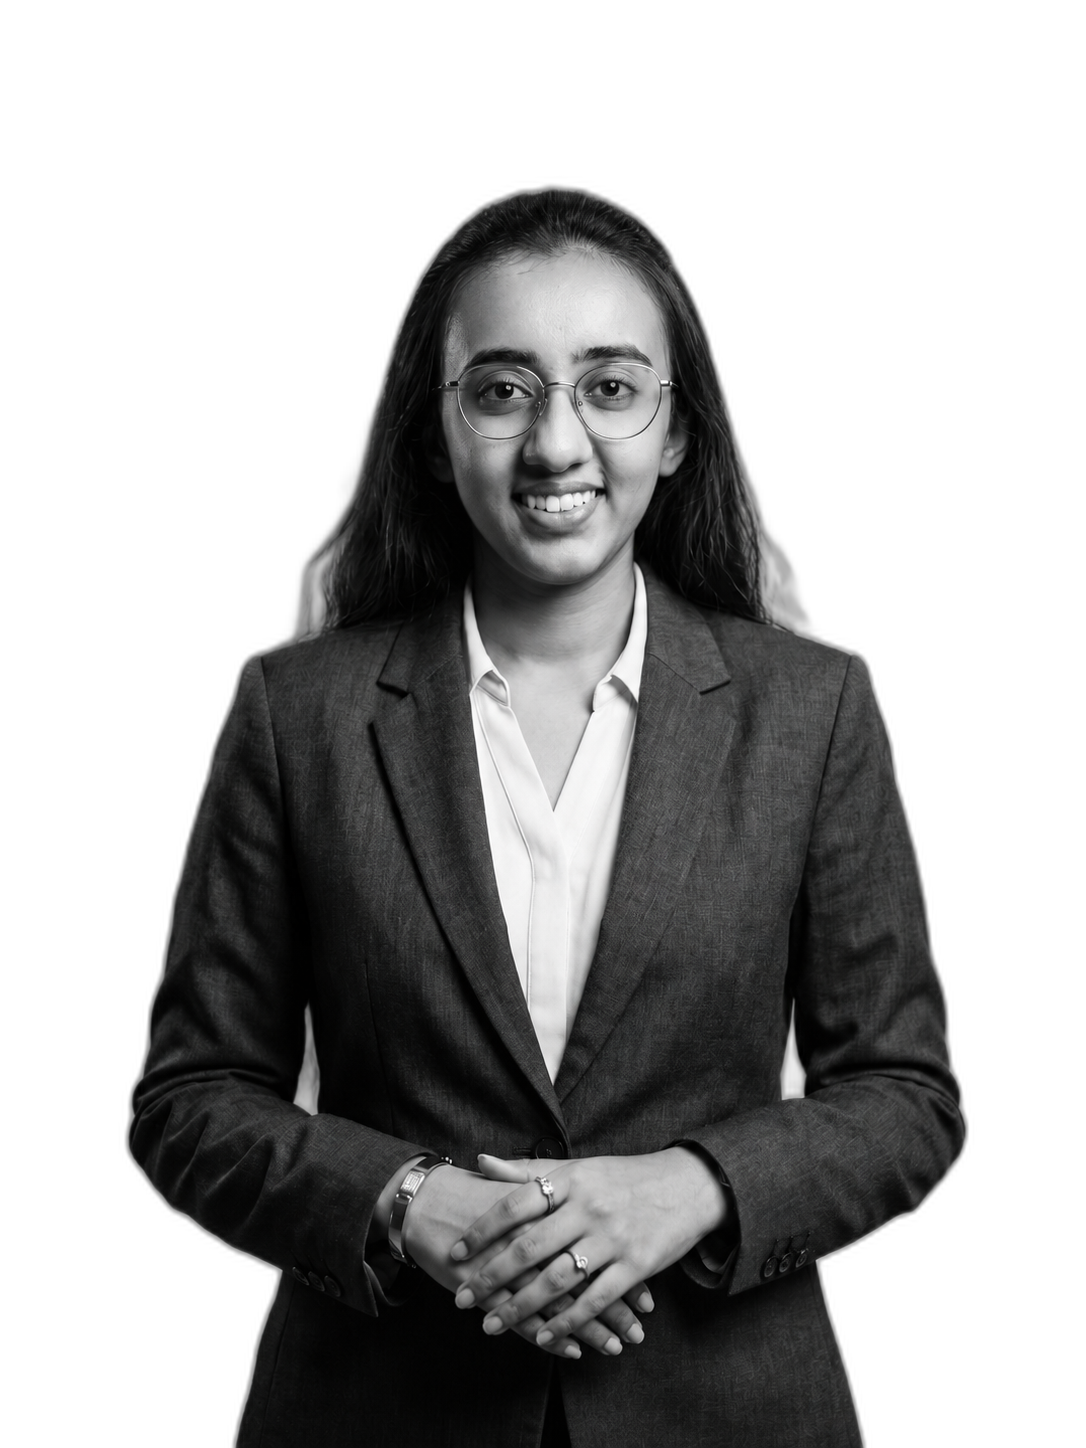
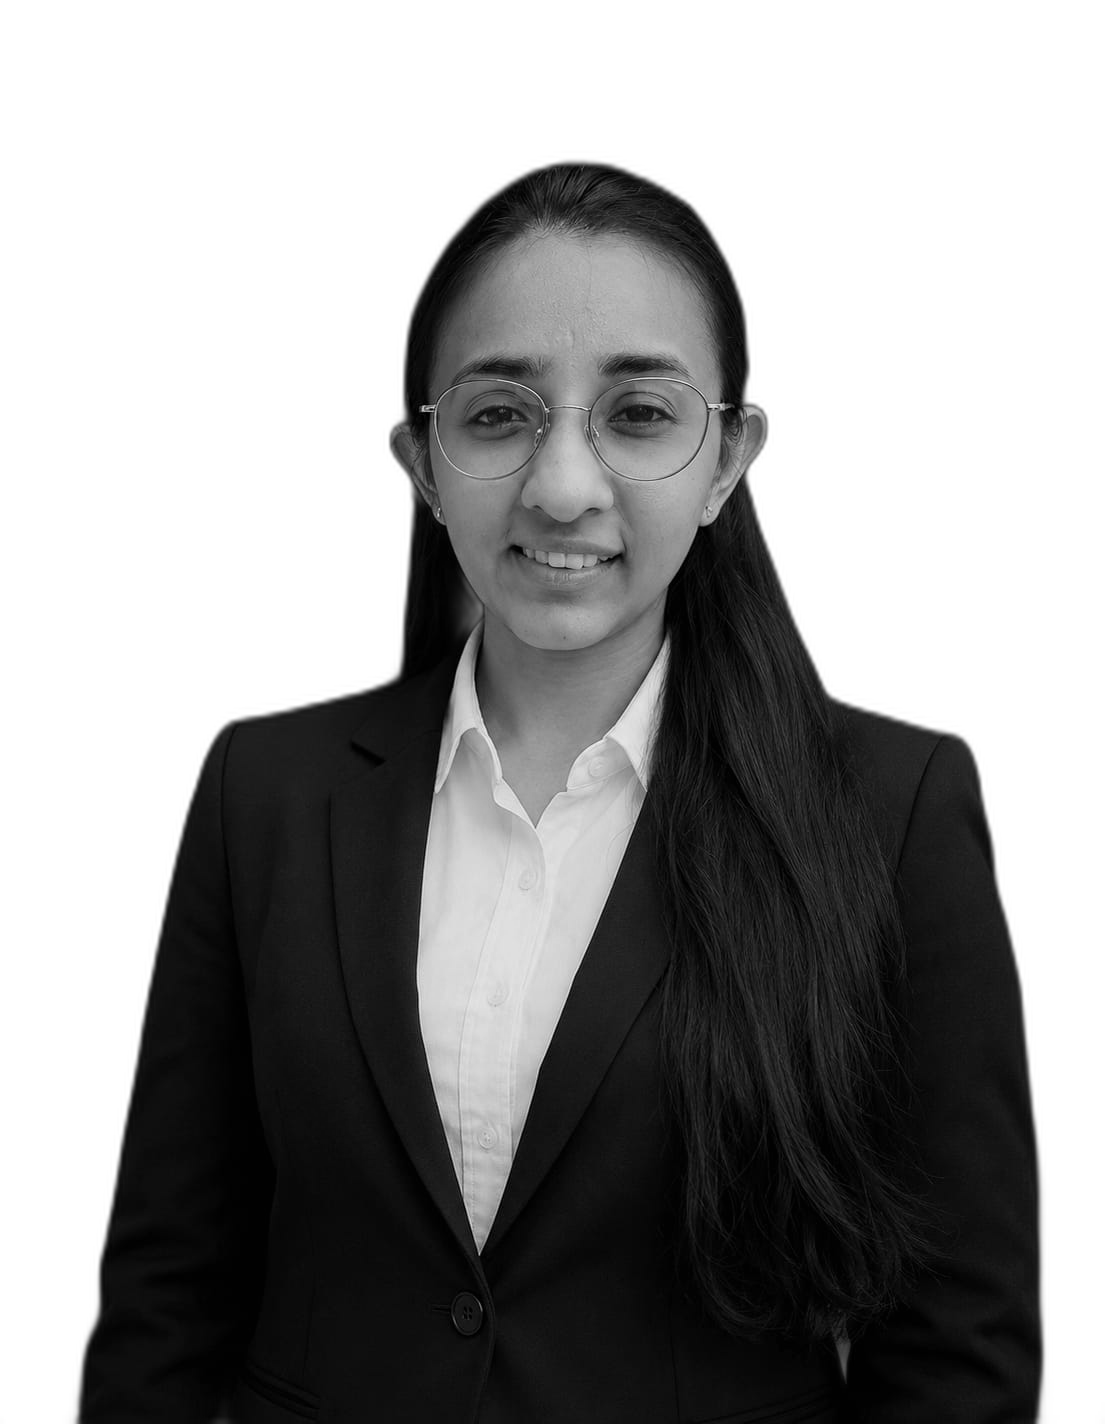
Website has been creted

diff --git a/components/sections/Footer.tsx b/components/sections/Footer.tsx
@@ -1,4 +1,4 @@
-import { Linkedin } from 'lucide-react';
+import { Linkedin, Github } from 'lucide-react';
 import { personal } from '@/app/data/personal';
 
 export const Footer = () => {
@@ -14,15 +14,26 @@ export const Footer = () => {
       <span style={{ fontSize: 'var(--fs-xs)', color: 'var(--color-muted)' }}>
         © 2025 Simran Bhamrah. All rights reserved.
       </span>
-      <a
-        href={personal.linkedin}
-        target="_blank"
-        rel="noopener noreferrer"
-        aria-label="LinkedIn profile"
-        className="hover:opacity-70 transition-opacity"
-      >
-        <Linkedin size={16} style={{ color: 'var(--color-muted)' }} aria-hidden="true" />
-      </a>
+      <div className="flex gap-4">
+        <a
+          href={personal.linkedin}
+          target="_blank"
+          rel="noopener noreferrer"
+          aria-label="LinkedIn profile"
+          className="hover:opacity-70 transition-opacity"
+        >
+          <Linkedin size={16} style={{ color: 'var(--color-muted)' }} aria-hidden="true" />
+        </a>
+        <a
+          href={personal.github}
+          target="_blank"
+          rel="noopener noreferrer"
+          aria-label="GitHub profile"
+          className="hover:opacity-70 transition-opacity"
+        >
+          <Github size={16} style={{ color: 'var(--color-muted)' }} aria-hidden="true" />
+        </a>
+      </div>
     </footer>
   );
 };

diff --git a/components/sections/Sidebar.tsx b/components/sections/Sidebar.tsx
@@ -1,7 +1,7 @@
 'use client';
 
 import { useState, useEffect } from 'react';
-import { Home, User, Code2, FolderOpen, Briefcase, Mail, Linkedin } from 'lucide-react';
+import { Home, User, Code2, FolderOpen, Briefcase, Mail, Linkedin, Github } from 'lucide-react';
 import { personal } from '@/app/data/personal';
 
 const NAV_ITEMS = [
@@ -120,6 +120,15 @@ export const Sidebar = () => {
             className="hover:opacity-70 transition-opacity"
           >
             <Linkedin size={15} style={{ color: 'var(--color-muted)' }} aria-hidden="true" />
+          </a>
+          <a
+            href={personal.github}
+            target="_blank"
+            rel="noopener noreferrer"
+            aria-label="GitHub profile"
+            className="hover:opacity-70 transition-opacity"
+          >
+            <Github size={15} style={{ color: 'var(--color-muted)' }} aria-hidden="true" />
           </a>
         </div>
       </div>

diff --git a/components/sections/HeroSplit.tsx b/components/sections/HeroSplit.tsx
@@ -1,4 +1,4 @@
-import { MapPin, Mail, Linkedin, ArrowRight, Briefcase, Zap, Sparkles, User, GraduationCap, Trophy, Download } from 'lucide-react';
+import { MapPin, Mail, Linkedin, Github, ArrowRight, Briefcase, Zap, Sparkles, User, GraduationCap, Trophy, Download } from 'lucide-react';
 import { FadeUp } from '@/components/motion/FadeUp';
 import { FadeIn } from '@/components/motion/FadeIn';
 import { personal } from '@/app/data/personal';
@@ -7,6 +7,7 @@ const aboutRows = [
   { icon: MapPin, label: 'From', value: (p: typeof personal) => p.location },
   { icon: Mail, label: 'Email', value: (p: typeof personal) => p.email },
   { icon: Linkedin, label: 'LinkedIn', value: (p: typeof personal) => p.linkedinHandle },
+  { icon: Github, label: 'GitHub', value: (p: typeof personal) => p.githubHandle },
   { icon: Briefcase, label: 'Status', value: (p: typeof personal) => p.availability },
 ];
 

diff --git a/app/data/personal.ts b/app/data/personal.ts
@@ -8,6 +8,8 @@ export interface PersonalInfo {
   email: string;
   linkedin: string;
   linkedinHandle: string;
+  github: string;
+  githubHandle: string;
   availability: string;
   stats: { value: string; label: string }[];
 }
@@ -23,6 +25,8 @@ export const personal: PersonalInfo = {
   email: "simranbhamrah1997@gmail.com",
   linkedin: "https://www.linkedin.com/in/simran-bhamrah/",
   linkedinHandle: "linkedin.com/in/simran-bhamrah",
+  github: "https://github.com/simran-dev-28",
+  githubHandle: "github.com/simran-dev-28",
   availability: "Open to Opportunities",
   stats: [
     { value: "5+", label: "Years Experience" },

diff --git a/components/sections/ContactSection.tsx b/components/sections/ContactSection.tsx
@@ -56,6 +56,19 @@ export const ContactSection = () => {
             >
               Send an Email
             </Link>
+            <Link
+              href={personal.github}
+              target="_blank"
+              rel="noopener noreferrer"
+              className="px-5 py-3 rounded-md flex items-center justify-center"
+              style={{
+                background: 'transparent',
+                border: '2px solid var(--color-primary)',
+                color: 'var(--color-primary)'
+              }}
+            >
+              View GitHub
+            </Link>
           </div>
         </FadeIn>
 
